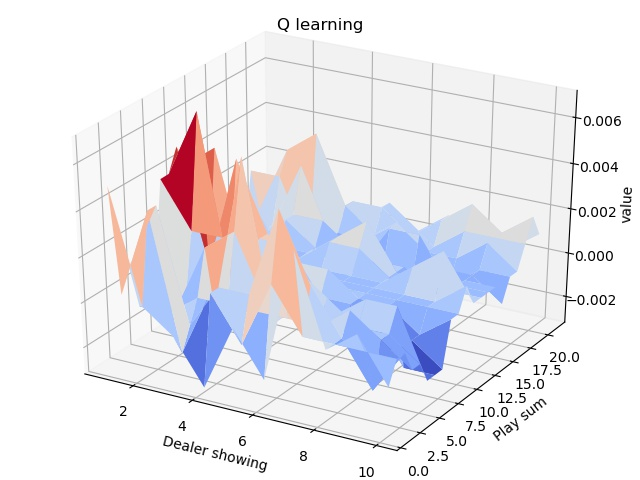
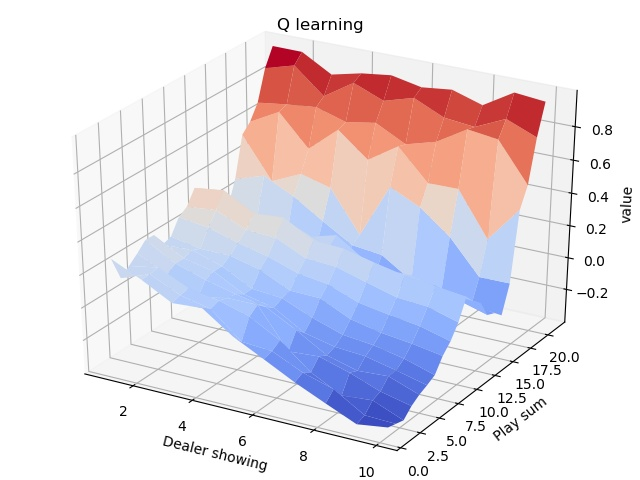
Q-learning method for both MC/TD

diff --git a/Easy21/policy_iteration.py b/Easy21/policy_iteration.py
@@ -1,0 +1,85 @@
+import numpy as np
+import matplotlib.pyplot as plt
+from matplotlib import cm
+from mpl_toolkits.mplot3d import Axes3D
+
+
+class Easy21():
+    def draw_card(self):
+        # ---Return---
+        # value : card value
+        # operation: 1 -> add, -1 -> subtract
+        value = np.random.randint(1, 11)
+        tmp = np.random.rand()
+
+        if tmp > 1 / 3:
+            return (value, 1)
+        else:
+            return (value, -1)
+
+    def draw_one_card(self, score):
+        value, operation = self.draw_card()
+        score += value * operation
+        return score
+
+    def dealer_turn(self, score):
+        while (1 <= score < 16):  # only case dealer continue to hit
+            score = self.draw_one_card(score)
+        return score
+
+    def go_bust(self, score):
+        return (score > 21 or score < 1)
+
+    def step(self, state, action):
+        # ---Input---
+        # state: tuple, (dealer's first card, player's current sum)
+        # action: int, 1 -> "stick", 0 -> "hit"
+        #
+        # ---Return---
+        # next_state: tuple,
+        # reward: int,
+        # terminal: bool,
+
+        dealer_score, player_score = state
+        player_action = action
+
+        if action == 1:  # stick
+            dealer_score = self.dealer_turn(dealer_score)
+            terminal = True
+            next_state = (dealer_score, player_score)  # dealer's score may out of range
+            if (self.go_bust(dealer_score)):  # dealer go bust
+                reward = 1
+            elif (dealer_score == player_score):  # two sums are the same.
+                reward = 0
+            else:
+                reward = int((player_score - dealer_score) / np.abs(
+                    player_score - dealer_score))  # if player's sum is larger, then reward = 1
+
+        else:  # hit
+            player_score = self.draw_one_card(player_score)
+            next_state = (dealer_score, player_score)
+            if (self.go_bust(player_score)):
+                reward = -1
+                terminal = True
+            else:
+                reward = 0
+                terminal = False
+
+        return next_state, reward, terminal
+
+
+class Agent():
+    def __init__(self):
+        self.s_len = 10 * 21   # num of states
+        self.a_len = 2   # either stick or hit
+        self.r = []   # reward for every state
+        self.pi = np.array([0 for s in range(self.s_len)])   # action policy for every state
+        self.p = np.zeros([self.a_len, self.s_len, self.s_len], dtype=np.float)  # transition matrix for actions
+
+        for i , action in enumerate()
+
+
+
+class policy_iteration():
+    def policy_evaluation(self):
+

diff --git a/Easy21/easy21.py b/Easy21/easy21.py
@@ -66,12 +66,14 @@ class Easy21():
 		return next_state,reward,terminal
 
 class Q_Learning():
-	def __init__(self,n_iter=1000):
+	def __init__(self,n_iter=100000):
 		# self.Q = np.zeros((11,22,2))  #only use 1-10,1-21
 		self.Q = self.init_Q_table()
 		self.n_iteration = n_iter
-		self.alpha = 0.001
-		self.gamma = 0.5
+		self.alpha = 0.1
+		self.gamma = 1
+		self.epsilon = 0.4
+		self.N = self.init_Q_table()
 
 	def init_Q_table(self):
 		dealer = np.arange(1,11)
@@ -88,15 +90,30 @@ class Q_Learning():
 		player_score = np.random.randint(1,11)
 		ori_state = (dealer_score,player_score)
 		ori_action = np.random.randint(2)
+		totalreward = 0
 		terminal = False
+		# The following is the main step for every-visit MC evaluation.
+		# For TD, alpha should be set constant, and there is no need to calculate "totalreward"
 		while not terminal:	
 			state,reward,terminal = game.step(ori_state,ori_action)
 
-			self.Q[ori_state][ori_action] = (1-self.alpha)*self.Q[ori_state][ori_action] + \
-											self.alpha*(reward+self.gamma*max(self.Q.get(state,(0,))))
+			totalreward += reward
+
+			self.N[ori_state][ori_action] += 1
+			alpha = 1/self.N[ori_state][ori_action]
+			epsilon = 100/(100+np.sum(self.N[ori_state][ori_action]))
+
+			self.Q[ori_state][ori_action] = (1-alpha)*self.Q[ori_state][ori_action] + \
+											alpha*(totalreward+self.gamma*max(self.Q.get(state,(0,))))
 			print(f"state: {ori_state} \t action: {ori_action} \t reward: {reward} \t value: {self.Q[ori_state][ori_action]}")
 			ori_state = state
-			ori_action = np.random.randint(2) # actually a new action at time t+1
+
+			tmp = np.random.rand()
+			if tmp < epsilon:
+				ori_action = np.random.randint(2)    # actually a new action at time t+1
+			else:
+				ori_action = np.argmax(self.Q)
+
 
 	def train(self):
 		for i in range(self.n_iteration):
